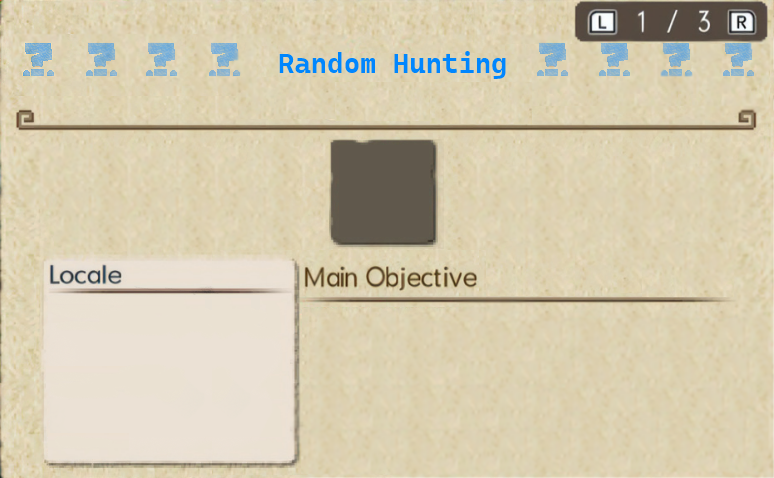
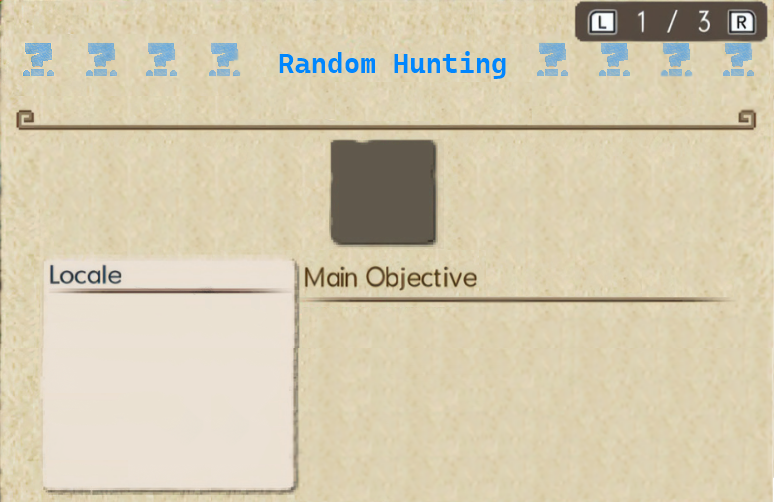
Reedited result card to allow for a little more space in case there are display issues with the hunter art text

diff --git a/docs/styles.css b/docs/styles.css
@@ -153,22 +153,22 @@ body{
 /* Result */
 .result-card-wrap{max-width:700px;margin:0 auto}
 .result-card{
-  background-image:url('assets/result-card-bg.png');
+  background-image:url('assets/result-card-bg.png?v=2');
   background-size:100% 100%;
-  aspect-ratio:775/480;
+  aspect-ratio:774/502;
   position:relative;overflow:hidden;
   container-type:inline-size;
 }
 /* Placeholder sits on the divider line below "Random Hunting" */
 .placeholder{
-  position:absolute;top:18%;left:5%;right:5%;height:10%;
+  position:absolute;top:17.43%;left:5%;right:5%;height:9.56%;
   display:flex;align-items:center;justify-content:center;
   text-align:center;margin:0;color:#4D391F;font-size:2.8cqi;
 }
 .result{position:absolute;inset:0}
 /* Quest name on the decorative line below "Random Hunting" */
 .rc-title{
-  position:absolute;top:18%;left:5%;right:5%;height:10%;
+  position:absolute;top:17.43%;left:5%;right:5%;height:9.56%;
   display:flex;align-items:center;justify-content:center;
   gap:5px;overflow:hidden;
 }
@@ -184,22 +184,25 @@ body{
 .prowler-pill{background:#7a4a1e;color:#fff;font-size:2.4cqi;font-weight:700;padding:1px 7px;border-radius:10px;text-transform:uppercase;letter-spacing:.5px;white-space:nowrap;text-shadow:0 1px 1px rgba(0,0,0,.35);flex-shrink:0}
 .capture-pill{background:#4a4a4a;color:#fff;font-size:2.4cqi;font-weight:700;padding:1px 7px;border-radius:10px;text-transform:uppercase;letter-spacing:.5px;white-space:nowrap;text-shadow:0 1px 1px rgba(0,0,0,.35);flex-shrink:0}
 /* Monster icon in the upper content area, over the dark square */
-.rc-icon{position:absolute;top:30%;left:43%;width:13%}
+.rc-icon{position:absolute;top:29.91%;left:43%;width:13%}
 .target-icon{width:100%;display:block;object-fit:contain}
 .hyper-overlay{position:absolute;top:-6%;left:-6%;width:112%;pointer-events:none}
 /* Locale value in the lower-left white box (below the decorative divider) */
 .rc-locale{
-  position:absolute;top:61%;left:7%;width:22%;bottom:4%;
+  position:absolute;top:59.55%;left:7%;width:22%;bottom:2.6%;
   display:flex;flex-direction:column;gap:3px;
 }
 .r-locale-val{font-size:2.6cqi;font-weight:700;color:#4D391F;line-height:1.3}
 .r-sub{font-size:1.4cqi;color:#4D391F;line-height:1.3;margin-top:4px}
 /* Main objective text in the "Main Objective" area */
-.rc-main{position:absolute;top:64%;left:40%;right:2%;color:#4D391F}
+.rc-main{position:absolute;top:62.42%;left:40%;right:2%;color:#4D391F}
 .rc-main .r-sub{font-size:2.9cqi;color:#4D391F;margin-top:0}
-/* Loadout in the lower-right "Main Objective" area */
+/* Loadout in the lower-right "Main Objective" area — top is rescaled to the new card
+   height like everything else (keeps it pixel-aligned with .rc-main above), but bottom
+   is deliberately left at the ORIGINAL 4% value (not rescaled) so this box alone claims
+   all the extra height added to the card art, giving Hunter Arts more room. */
 .rc-loadout{
-  position:absolute;top:67%;left:6.5%;right:1.5%;bottom:4%;
+  position:absolute;top:65.28%;left:6.5%;right:1.5%;bottom:2.78%;
   display:flex;flex-direction:column;gap:3px;
 }
 .r-label{font-size:1.4cqi;color:#4D391F;text-transform:uppercase;letter-spacing:.5px}
@@ -245,7 +248,7 @@ body{
 .ch-edit-text:hover,.ch-edit-text:focus,.ch-edit-chance:hover,.ch-edit-chance:focus{outline:none}
 .ch-pct{font-size:12px;opacity:.7;flex-shrink:0}
 .r-challlabel{font-size:1.8cqi;color:#ffffff;text-transform:uppercase;letter-spacing:.5px}
-.rc-challenges{position:absolute;top:28%;left:63%;right:2%;max-height:32%;overflow:hidden;background-image:linear-gradient(rgba(84,72,63,0.82),rgba(84,72,63,0.82)),url('assets/challenge-bg.png');background-size:100% 100%;padding:4px 8px 14px;border-radius:6px}
+.rc-challenges{position:absolute;top:27.99%;left:63%;right:2%;max-height:30.6%;overflow:hidden;background-image:linear-gradient(rgba(84,72,63,0.82),rgba(84,72,63,0.82)),url('assets/challenge-bg.png');background-size:100% 100%;padding:4px 8px 14px;border-radius:6px}
 .challenges-list{margin:4px 0 0;padding-left:18px;list-style:disc;font-size:2.2cqi;color:#ffffff}
 .challenges-list li{margin-bottom:1px;white-space:nowrap}
 

diff --git a/docs/index.html b/docs/index.html
@@ -7,7 +7,7 @@
 <title>MHGU Quest Randomizer</title>
 <link rel="icon" href="assets/MonsterIcons/MHGU-Question_Mark_Icon.webp">
 <!-- Bump ?v= on any styles/app/data change so browsers fetch fresh copies (no hard-refresh needed) -->
-<link rel="stylesheet" href="styles.css?v=99">
+<link rel="stylesheet" href="styles.css?v=105">
 </head>
 <body>
 <div id="app">